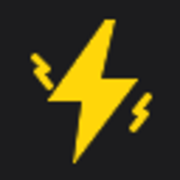
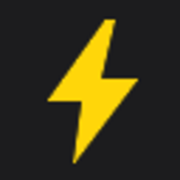
style: 파비콘·로고마크 양옆 크랙클 스파크 제거(번개만)

Changed region(s): [[0.6944, 0.5, 0.8611, 0.75], [0.1667, 0.2778, 0.3056, 0.5278]]

diff --git a/_layouts/default.html b/_layouts/default.html
@@ -25,12 +25,8 @@
   <header class="site-header">
     <div class="wrap site-header__inner">
       <a class="site-brand" href="{{ '/' | relative_url }}">
-        <svg class="site-brand__mark" viewBox="6 5 52 54" aria-hidden="true" focusable="false">
+        <svg class="site-brand__mark" viewBox="14 5 36 54" aria-hidden="true" focusable="false">
           <path d="M37 7 L17 35 H29 L26 57 L48 28 H35 L40 7 Z" fill="#FFD60A"/>
-          <g stroke="#FFD60A" stroke-width="2.6" stroke-linecap="round" stroke-linejoin="round" fill="none">
-            <path d="M12 20 l4 4 l-3 1 l4 5"/>
-            <path d="M52 34 l-4 5 l3 1 l-4 5"/>
-          </g>
         </svg>
         <span class="site-brand__text">{{ site.title }}</span>
       </a>